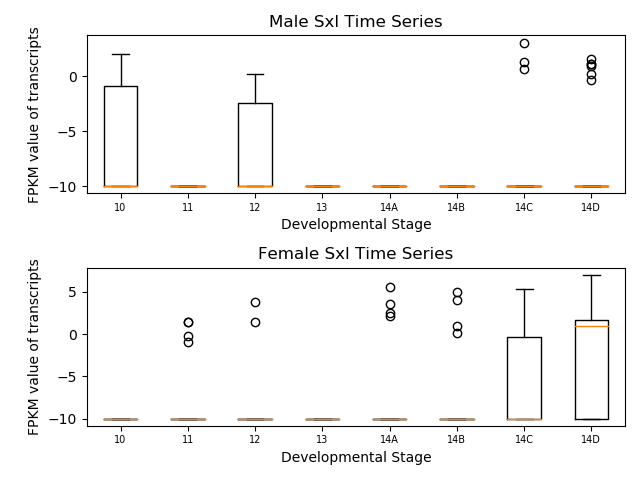
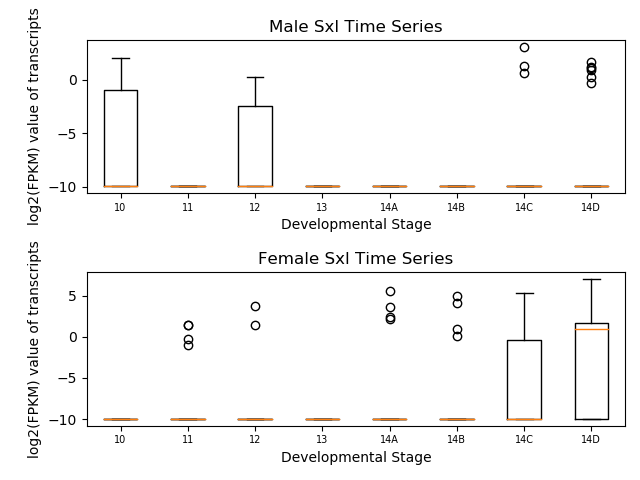
Modified labels on boxplot to reflect log nature of y axis

diff --git a/day4-homework/exercise2.py b/day4-homework/exercise2.py
@@ -35,12 +35,12 @@ ax1.boxplot(male_transcripts.T)
 ax1.set_xticklabels(male_labels, fontsize=7)
 ax1.set_title('Male Sxl Time Series')
 ax1.set_xlabel('Developmental Stage')
-ax1.set_ylabel('FPKM value of transcripts')
+ax1.set_ylabel('log2(FPKM) value of transcripts')
 ax2.boxplot(female_transcripts.T)
 ax2.set_xticklabels(female_labels, fontsize=7)
 ax2.set_title('Female Sxl Time Series')
 ax2.set_xlabel('Developmental Stage')
-ax2.set_ylabel('FPKM value of transcripts')
+ax2.set_ylabel('log2(FPKM) value of transcripts')
 plt.tight_layout()
 fig.savefig('boxplot.png')
 plt.close()
